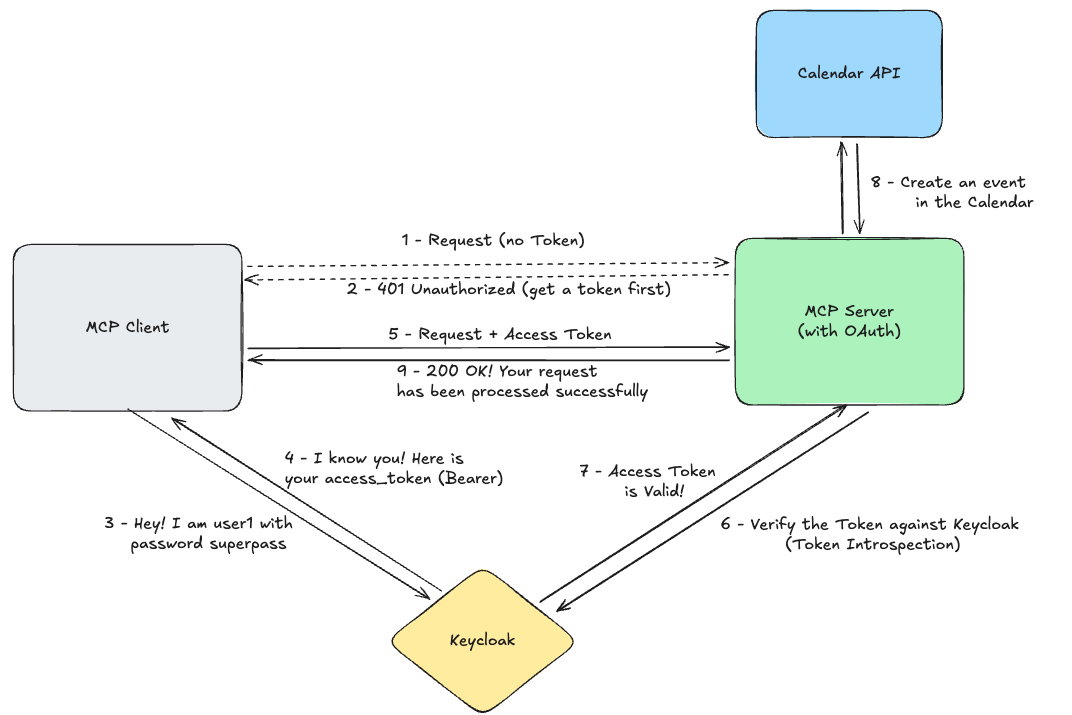
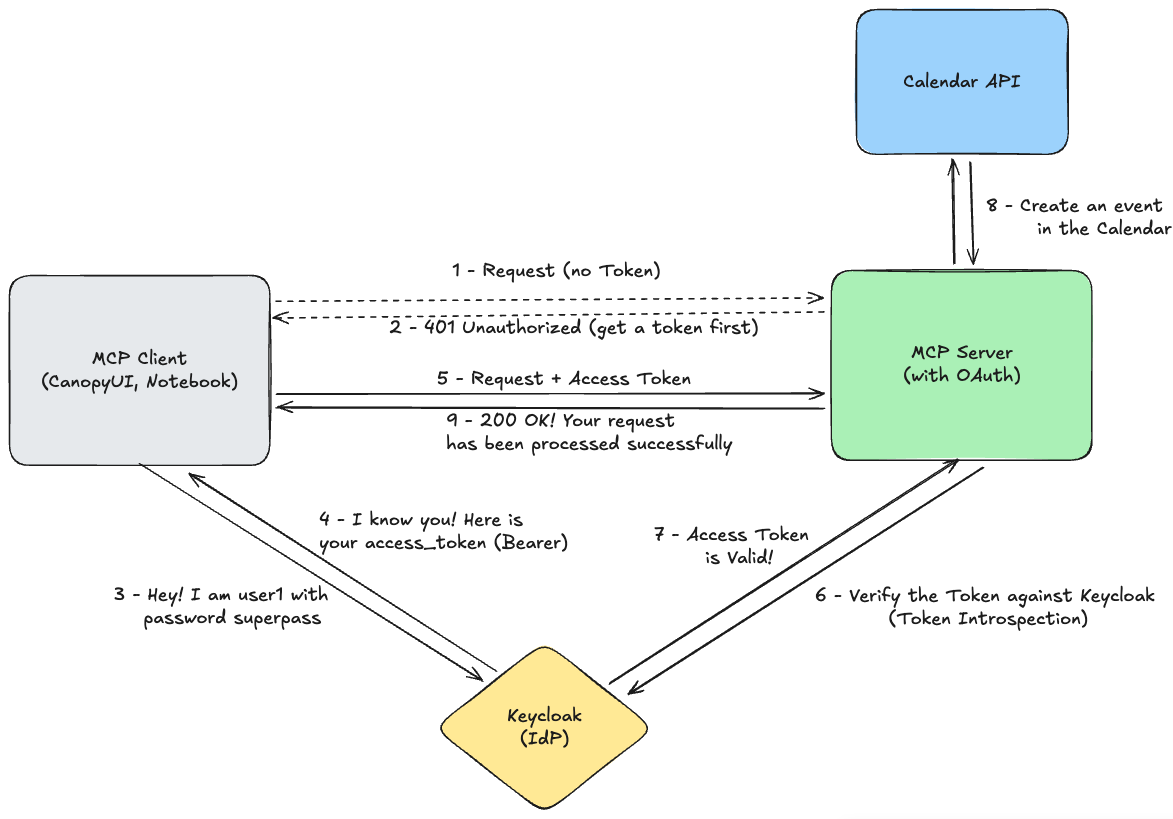
minor fixes mcp

Changed region(s): [[0.0, 0.0, 1.0, 1.0], [0.7388, 0.4, 0.8619, 0.4923], [0.4925, 0.9231, 0.5233, 0.9538]]

diff --git a/docs/8-agents/6-securing-mcp-servers.md b/docs/8-agents/6-securing-mcp-servers.md
@@ -27,7 +27,7 @@ Here's how token-based security works for MCP leveraging OAuth:
 3. Keycloak returns an **access token** with granted scopes
 4. Client retries with `Authorization: Bearer <token>`
 5. MCP Server validates the token via **introspection**
-6. If valid → request proceeds to Calendar API
+6. If valid, a request proceeds to Calendar API
 7. Success!
 
 The key insight: the MCP server never sees passwords. It only validates tokens issued by a trusted authority (Keycloak).
